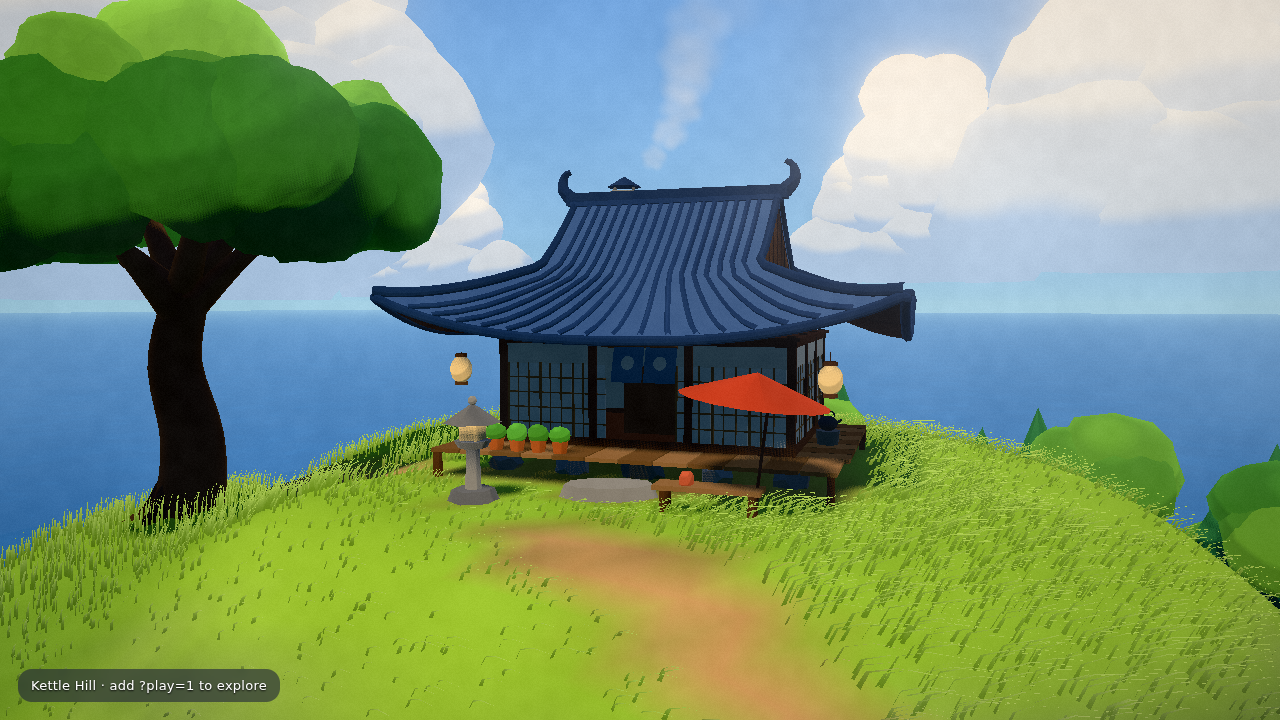
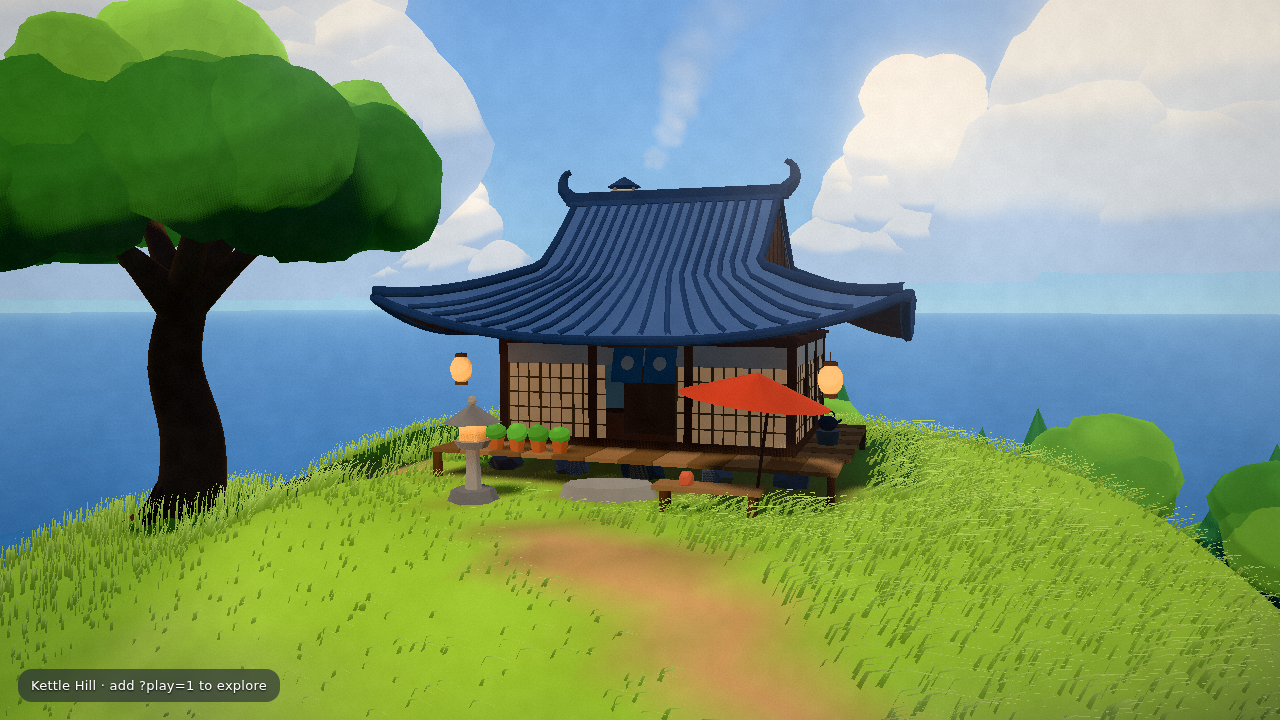
art: golden-hour cover light, always-on warm glow, cloud shadows, meadow receives sun shadows, ui=0 screenshot mode

Changed region(s): [[0.3438, 0.4583, 0.5, 0.6417], [0.5312, 0.4583, 0.6562, 0.6417]]

diff --git a/src/world/grass.ts b/src/world/grass.ts
@@ -1,6 +1,6 @@
 import * as THREE from 'three';
 import { mulberry32, fbm2, smoothstep } from '../lib/noise';
-import { globalUniforms } from '../render/toon';
+import { globalUniforms, CLOUD_SHADOW_GLSL } from '../render/toon';
 import { heightAt, surfaceAt } from './terrain';
 
 /**
@@ -65,7 +65,8 @@ export function createGrass(count = 140000, radius = 78) {
   geo.setAttribute('aColor', new THREE.InstancedBufferAttribute(colors.subarray(0, n * 3), 3));
   geo.instanceCount = n;
 
-  const uniforms = THREE.UniformsUtils.merge([THREE.UniformsLib.fog]);
+  // lights: true so blades can sample the sun's shadow map (long tree/house shadows across the meadow)
+  const uniforms = THREE.UniformsUtils.merge([THREE.UniformsLib.fog, THREE.UniformsLib.lights]);
   Object.assign(uniforms, globalUniforms, {
     uSkyCol: { value: new THREE.Color() },
     uGroundCol: { value: new THREE.Color() },
@@ -75,10 +76,12 @@ export function createGrass(count = 140000, radius = 78) {
   const mat = new THREE.ShaderMaterial({
     uniforms,
     fog: true,
+    lights: true,
     side: THREE.DoubleSide,
     vertexShader: /* glsl */ `
       #include <common>
       #include <fog_pars_vertex>
+      #include <shadowmap_pars_vertex>
       attribute vec4 aOffset;
       attribute vec3 aShape;
       attribute vec3 aColor;
@@ -87,6 +90,7 @@ export function createGrass(count = 140000, radius = 78) {
       varying vec3 vCol;
       varying float vT;
       varying float vGust;
+      varying vec2 vXZ;
       float h1(vec2 p){ return fract(sin(dot(p, vec2(12.9898,78.233))) * 43758.5453); }
       float n1(vec2 p){ vec2 i=floor(p), f=fract(p); vec2 u=f*f*(3.0-2.0*f);
         return mix(mix(h1(i),h1(i+vec2(1,0)),u.x), mix(h1(i+vec2(0,1)),h1(i+vec2(1,1)),u.x), u.y); }
@@ -108,18 +112,30 @@ export function createGrass(count = 140000, radius = 78) {
         vCol = aColor;
         vT = t;
         vGust = gust;
+        vXZ = world.xz;
         vec4 mvPosition = viewMatrix * vec4(world, 1.0);
         gl_Position = projectionMatrix * mvPosition;
+        // shadow lookup at the blade's root height so whole blades darken together
+        vec4 worldPosition = vec4(aOffset.xyz + vec3(p.x, p.y * 0.5, p.z), 1.0);
+        vec3 transformedNormal = (viewMatrix * vec4(0.0, 1.0, 0.0, 0.0)).xyz;
+        #include <shadowmap_vertex>
         #include <fog_vertex>
       }`,
     fragmentShader: /* glsl */ `
       #include <common>
+      #include <packing>
       #include <fog_pars_fragment>
+      #include <bsdfs>
+      #include <lights_pars_begin>
+      #include <shadowmap_pars_fragment>
+      #include <shadowmask_pars_fragment>
       uniform vec3 uSunColor, uSkyCol, uGroundCol;
       uniform float uNight, uSunI;
       varying vec3 vCol;
       varying float vT;
       varying float vGust;
+      varying vec2 vXZ;
+      ${CLOUD_SHADOW_GLSL}
       void main(){
         // root sinks into the ground colour, tips catch the light
         vec3 base = vCol * 0.62;
@@ -127,8 +143,13 @@ export function createGrass(count = 140000, radius = 78) {
         vec3 col = mix(base, tip, smoothstep(0.0, 1.0, vT));
         // gust sheen: bent blades show their lighter backs
         col = mix(col, col * 1.18 + vec3(0.04, 0.05, 0.0), vGust * vT * 0.6);
-        vec3 light = mix(uSkyCol * 0.75, uSunColor * (0.55 + 0.25 * uSunI), 0.65);
+        float sh = getShadowMask();
+        vec3 amb = uSkyCol * 0.75;
+        vec3 sunL = uSunColor * (0.55 + 0.25 * uSunI);
+        // in shadow the meadow drops into cool sky light, never black
+        vec3 light = mix(amb * vec3(0.98, 1.0, 1.12) + sunL * 0.16, mix(amb, sunL, 0.65), sh);
         col *= light;
+        col = applyCloudShadow(col, vXZ);
         gl_FragColor = vec4(col, 1.0);
         #include <tonemapping_fragment>
         #include <colorspace_fragment>

diff --git a/src/main.ts b/src/main.ts
@@ -77,6 +77,7 @@ const sea = createSea(heightAt);
 scene.add(sea.mesh);
 
 const grass = createGrass(quality === 'low' ? 50000 : quality === 'med' ? 100000 : 160000);
+grass.mesh.receiveShadow = quality !== 'low';
 scene.add(grass.mesh);
 
 const house = createTeaHouse();
@@ -187,6 +188,8 @@ const presets: Record<string, [THREE.Vector3, THREE.Vector3]> = {
   tree: [new THREE.Vector3(HERO_TREE.x + 13, HERO_TREE.y + 3, HERO_TREE.z + 17), new THREE.Vector3(HERO_TREE.x - 4, HERO_TREE.y + 5.5, HERO_TREE.z - 2)],
   sea: [new THREE.Vector3(HOUSE.x + 4, HOUSE.y + 3.4, HOUSE.z + 9), new THREE.Vector3(LOOKOUT.x - 40, 4, LOOKOUT.z - 10)],
   aerial: [new THREE.Vector3(70, 48, 80), new THREE.Vector3(0, 6, 0)],
+  // looking west into the sunset over the sea: shadows run towards camera, silhouettes get rim light
+  cover: [new THREE.Vector3(HOUSE.x + 17, HOUSE.y + 2.2, HOUSE.z + 11), new THREE.Vector3(HOUSE.x - 3, HOUSE.y + 3.2, HOUSE.z - 1)],
   roof: [new THREE.Vector3(HOUSE.x + 11, HOUSE.y + 6.5, HOUSE.z + 9), new THREE.Vector3(HOUSE.x + 1, HOUSE.y + 3.2, HOUSE.z)],
   porch: [new THREE.Vector3(HOUSE.x + 1.5, HOUSE.y + 1.7, HOUSE.z + 12.5), new THREE.Vector3(HOUSE.x + 0.5, HOUSE.y + 1.6, HOUSE.z + 2)],
   corner: [house.group.localToWorld(new THREE.Vector3(10.5, 6.2, 9.5)), house.group.localToWorld(new THREE.Vector3(5.2, 3.9, 3.8))],
@@ -214,7 +217,7 @@ followCamera.reset(player.root);
 const playPrompt = document.createElement('div');
 playPrompt.textContent = playMode ? 'WASD / arrows to walk · click to look · R to reset camera' : 'Kettle Hill · add ?play=1 to explore';
 playPrompt.style.cssText = 'position:fixed;left:18px;bottom:18px;padding:9px 13px;border-radius:14px;color:#fff;background:rgba(32,38,56,.62);font:13px system-ui,sans-serif;letter-spacing:.02em;text-shadow:0 1px 2px #000;pointer-events:none;backdrop-filter:blur(5px)';
-document.body.appendChild(playPrompt);
+if (params.get('ui') !== '0') document.body.appendChild(playPrompt);
 // gentle orbit drift so the live build feels alive (disabled for stills and play mode)
 const orbitCentre = camLook.clone();
 const orbitR = Math.hypot(camPos.x - camLook.x, camPos.z - camLook.z);
@@ -231,7 +234,8 @@ const resize = () => {
 resize();
 window.addEventListener('resize', resize);
 
-let day = fixedDay ?? 0.42;
+const smooth01 = (t: number) => { const x = Math.min(1, Math.max(0, t)); return x * x * (3 - 2 * x); };
+let day = fixedDay ?? 0.69; // open on golden hour
 const tmp = new THREE.Vector3();
 function frame(dt: number) {
   clock += dt;
@@ -244,6 +248,8 @@ function frame(dt: number) {
   globalUniforms.uSunColor.value.copy(s.sunColor);
   globalUniforms.uAmbient.value.copy(s.ambientSky);
   globalUniforms.uNight.value = s.night;
+  globalUniforms.uCloudOff.value.set(clock * 1.6, clock * 0.55);
+  globalUniforms.uCloudAmt.value = 0.85 * (1 - s.night) * Math.min(1, s.sunIntensity / 1.5);
 
   // light: sun by day, moon by night (cool and dim)
   const lightDir = s.night > 0.55 ? s.moonDir : s.sunDir;
@@ -263,8 +269,10 @@ function frame(dt: number) {
   grass.update(s.ambientSky, s.ambientGround, s.sunIntensity);
 
   // lanterns + shoji glow
-  for (const m of house.glowMaterials) m.emissiveIntensity = s.lanterns * 1.6;
-  for (const l of lanternLights) l.intensity = s.lanterns * (5 + Math.sin(clock * 7 + l.id) * 0.4);
+  // someone is always home: a faint warm glow by day that swells into lamplight at dusk
+  const glow = Math.max(s.lanterns, 0.25 + 0.6 * smooth01((0.62 - s.sunDir.y) / 0.5));
+  for (const m of house.glowMaterials) m.emissiveIntensity = glow * 1.6;
+  for (const l of lanternLights) l.intensity = glow * (5 + Math.sin(clock * 7 + l.id) * 0.4);
 
   // smoke
   for (const sp of smoke) {

diff --git a/src/render/toon.ts b/src/render/toon.ts
@@ -16,7 +16,25 @@ export const globalUniforms = {
   uSunColor: { value: new THREE.Color(1, 0.95, 0.85) },
   uAmbient: { value: new THREE.Color(0.55, 0.62, 0.8) },
   uNight: { value: 0 },
+  uCloudOff: { value: new THREE.Vector2() }, // drifting cloud-shadow offset (world metres)
+  uCloudAmt: { value: 0.0 }, // cloud-shadow strength (0 at night)
 };
+
+/** GLSL: soft drifting cloud shadows in world XZ. Shared by every lit material. */
+export const CLOUD_SHADOW_GLSL = /* glsl */ `
+uniform vec2 uCloudOff; uniform float uCloudAmt;
+float csH(vec2 p){ return fract(sin(dot(p, vec2(127.1, 311.7))) * 43758.5453); }
+float csN(vec2 p){ vec2 i=floor(p), f=fract(p); vec2 u=f*f*(3.0-2.0*f);
+  return mix(mix(csH(i),csH(i+vec2(1,0)),u.x), mix(csH(i+vec2(0,1)),csH(i+vec2(1,1)),u.x), u.y); }
+float cloudShadow(vec2 xz){
+  vec2 p = (xz + uCloudOff) * 0.032;
+  float n = csN(p) * 0.6 + csN(p * 2.3 + 7.1) * 0.3 + csN(p * 5.1 - 3.7) * 0.1;
+  return smoothstep(0.46, 0.6, n) * uCloudAmt;
+}
+vec3 applyCloudShadow(vec3 col, vec2 xz){
+  float c = cloudShadow(xz);
+  return mix(col, col * vec3(0.66, 0.72, 0.92), c);
+}`;
 
 let ramp: THREE.DataTexture | null = null;
 export function toonRamp(): THREE.DataTexture {
@@ -109,7 +127,8 @@ vWorldPosK = (modelMatrix * vec4(transformed, 1.0)).xyz;`,
         '#include <common>',
         `#include <common>
 uniform vec3 uSunColor; uniform vec3 uAmbient; uniform float uRim; uniform float uNight;
-varying vec3 vWorldPosK;`,
+varying vec3 vWorldPosK;
+${CLOUD_SHADOW_GLSL}`,
       )
       .replace(
         '#include <opaque_fragment>',
@@ -117,6 +136,7 @@ varying vec3 vWorldPosK;`,
 vec3 vdir = normalize(cameraPosition - vWorldPosK);
 float rimF = pow(1.0 - clamp(dot(normalize(vNormal), normalize((viewMatrix * vec4(vdir, 0.0)).xyz)), 0.0, 1.0), 3.0);
 outgoingLight += mix(uSunColor, uAmbient, 0.5) * rimF * uRim * (1.0 - 0.7 * uNight) * diffuseColor.rgb;
+outgoingLight = applyCloudShadow(outgoingLight - totalEmissiveRadiance, vWorldPosK.xz) + totalEmissiveRadiance;
 #include <opaque_fragment>`,
       );
   };

diff --git a/src/world/daylight.ts b/src/world/daylight.ts
@@ -27,7 +27,9 @@ const KEYS: Key[] = [
   { at: 0.27, top: '#5d7fc0', hor: '#ffc9a0', sun: '#ffcf9e', sunI: 1.6, amb: '#7d8fc8', gnd: '#5a5040', lit: '#fff0dd', shade: '#9aa6d6' },
   { at: 0.36, top: '#3f86e0', hor: '#b6dbf4', sun: '#fff4df', sunI: 2.4, amb: '#8fb2e8', gnd: '#5a6a48', lit: '#ffffff', shade: '#a8bde6' },
   { at: 0.5, top: '#2f7ade', hor: '#acd6f3', sun: '#fff8ec', sunI: 2.7, amb: '#93b8ec', gnd: '#5d7048', lit: '#ffffff', shade: '#aec4ea' },
-  { at: 0.64, top: '#3a7cd6', hor: '#d9e0dc', sun: '#ffe6c0', sunI: 2.3, amb: '#8eaee0', gnd: '#5d6a48', lit: '#fff8ea', shade: '#a6b6e0' },
+  { at: 0.6, top: '#3a7cd6', hor: '#d6e2e4', sun: '#ffeccc', sunI: 2.4, amb: '#8eaee0', gnd: '#5d6a48', lit: '#fff8ea', shade: '#a6b6e0' },
+  // golden hour: the cover shot. Low honey sun, cool violet shadows, peach horizon.
+  { at: 0.69, top: '#4f7ccc', hor: '#ffd2a6', sun: '#ffc888', sunI: 2.25, amb: '#8c8fd2', gnd: '#6a5a40', lit: '#fff1dc', shade: '#9c98cc' },
   { at: 0.73, top: '#5a64b0', hor: '#ffab78', sun: '#ff9a5c', sunI: 1.5, amb: '#7a78b8', gnd: '#5a4038', lit: '#ffd2a8', shade: '#8a7cb4' },
   { at: 0.8, top: '#2a2c66', hor: '#c06a70', sun: '#ff7a5a', sunI: 0.5, amb: '#504a88', gnd: '#2a2030', lit: '#d898a0', shade: '#4a4478' },
   { at: 0.88, top: '#0e1636', hor: '#2c3766', sun: '#8fa6e8', sunI: 0.35, amb: '#2a3966', gnd: '#141a2a', lit: '#9fb0dd', shade: '#2a3560' },

diff --git a/src/render/post.ts b/src/render/post.ts
@@ -33,8 +33,8 @@ const GradeShader = {
       // saturation lift, gentler in the darks
       c = mix(vec3(lum), c, 1.12 + 0.08 * smoothstep(0.2, 0.7, lum));
       // split toning: cool shadows, warm highlights
-      vec3 cool = vec3(0.92, 0.97, 1.08), warm = vec3(1.05, 1.0, 0.93);
-      c *= mix(cool, warm, smoothstep(0.15, 0.75, lum));
+      vec3 cool = vec3(0.86, 0.92, 1.14), warm = vec3(1.06, 1.0, 0.92);
+      c *= mix(cool, warm, smoothstep(0.1, 0.65, lum));
       // lift the blacks slightly (no pure black in watercolour)
       c = c * 0.97 + vec3(0.012, 0.014, 0.022);
       // paper: coarse fibres + fine grain

diff --git a/src/models/trees.ts b/src/models/trees.ts
@@ -60,7 +60,7 @@ export function createHeroTree(seed = 7, scale = 1): THREE.Group {
   clusterCentres.push(new THREE.Vector3(0.2, 11.2, 0.1), new THREE.Vector3(-1.2, 10.4, 1.4), new THREE.Vector3(1.4, 10.0, -1.2));
 
   // Leaf clusters: several puffs per centre, shaded by height (top = sunlit).
-  const deep = new THREE.Color('#2e5e34');
+  const deep = new THREE.Color('#3b6e3c');
   const mid = new THREE.Color('#4f8a3c');
   const lit = new THREE.Color('#8fc05a');
   for (const c of clusterCentres) {

diff --git a/src/world/sea.ts b/src/world/sea.ts
@@ -90,7 +90,7 @@ export function createSea(heightAt: (x: number, z: number) => number) {
         // fog to horizon
         float dist = length(vW - cameraPosition);
         float f = smoothstep(uFogNear * 2.0, uFogFar * 2.2, dist);
-        water = mix(water, uFogColor, f * 0.75);
+        water = mix(water, mix(uFogColor, uHorizon, 0.7), f * 0.95);
         gl_FragColor = vec4(water, alpha);
         #include <tonemapping_fragment>
         #include <colorspace_fragment>
